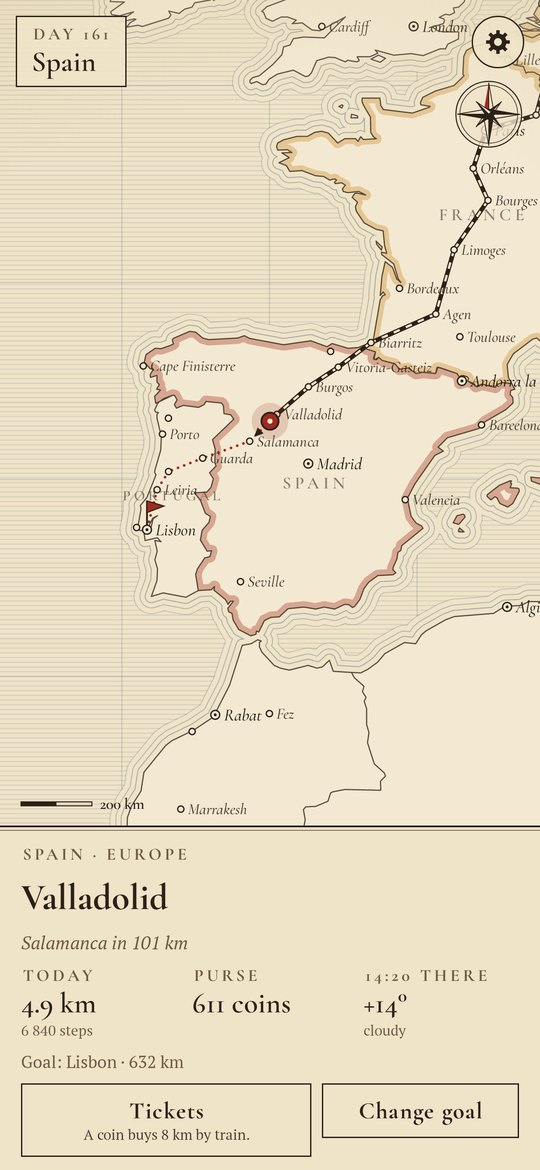
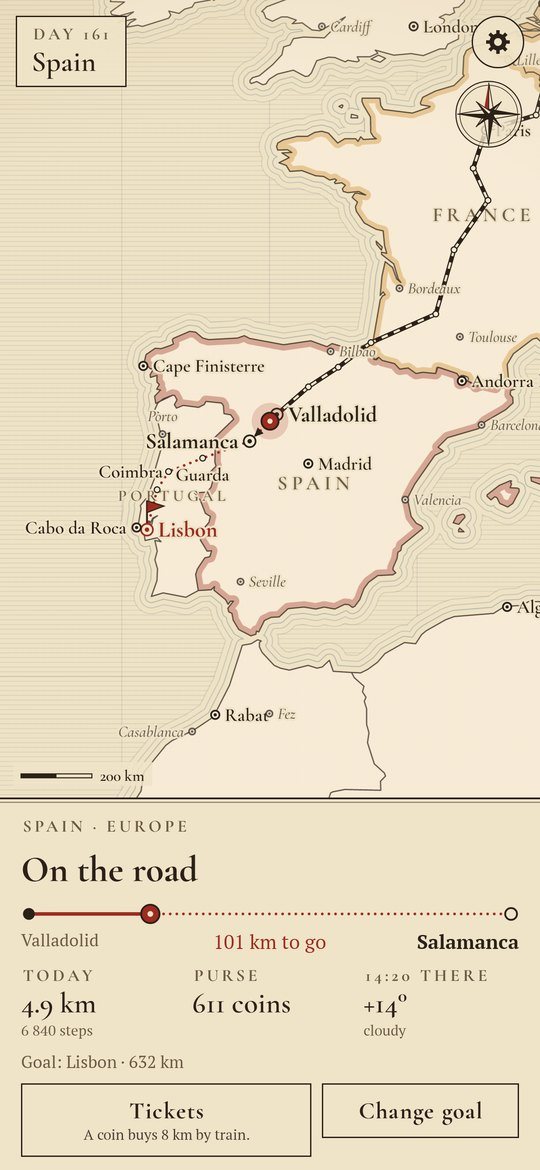
Keep the map's cached sheet inside the map; welcome traveller in London, England
The sheet drawn larger than the screen spilled its hatching over the
welcome text; the canvas now clips to its bounds. The welcome map found
London, Ontario first. Screenshots redrawn with the readable labels.

diff --git a/app/src/main/java/app/farwalker/ui/atlas/MapView.kt b/app/src/main/java/app/farwalker/ui/atlas/MapView.kt
@@ -29,6 +29,7 @@ import androidx.compose.runtime.mutableStateOf
 import androidx.compose.runtime.remember
 import androidx.compose.runtime.setValue
 import androidx.compose.ui.Modifier
+import androidx.compose.ui.draw.clipToBounds
 import androidx.compose.ui.geometry.Offset
 import androidx.compose.ui.geometry.Rect
 import androidx.compose.ui.geometry.Size
@@ -163,7 +164,8 @@ fun AtlasMap(
         snapshotFlow { camera.k }.collectLatest { delay(220); rested = it }
     }
     val key = Triple(j.iso, j.stamps.size, ru)
-    Canvas(modifier.then(gestures)) {
+    // The cached sheet is larger than the screen: clip it to the map's own bounds.
+    Canvas(modifier.clipToBounds().then(gestures)) {
         val p = Proj(camera, size.width, size.height, focusY, density)
         base.draw(this, p, key, rested) { bp -> drawBase(world, j, bp, sheetText, ru) }
         drawLive(world, j, travel, p, text, ru, bottomInset)

diff --git a/app/src/main/java/app/farwalker/ui/onboarding/Onboarding.kt b/app/src/main/java/app/farwalker/ui/onboarding/Onboarding.kt
@@ -56,7 +56,7 @@ fun Onboarding() {
     // A traveller standing at the chosen home (or at Greenwich, before there is one), for the map.
     val preview = remember(home) {
         Journey().also { j ->
-            val t = home ?: c.world.towns.first { it.en == "London" }
+            val t = home ?: c.world.towns.first { it.en == "London" && it.iso == "GBR" }
             c.travel.begin(j, t.id, 0)
         }
     }
